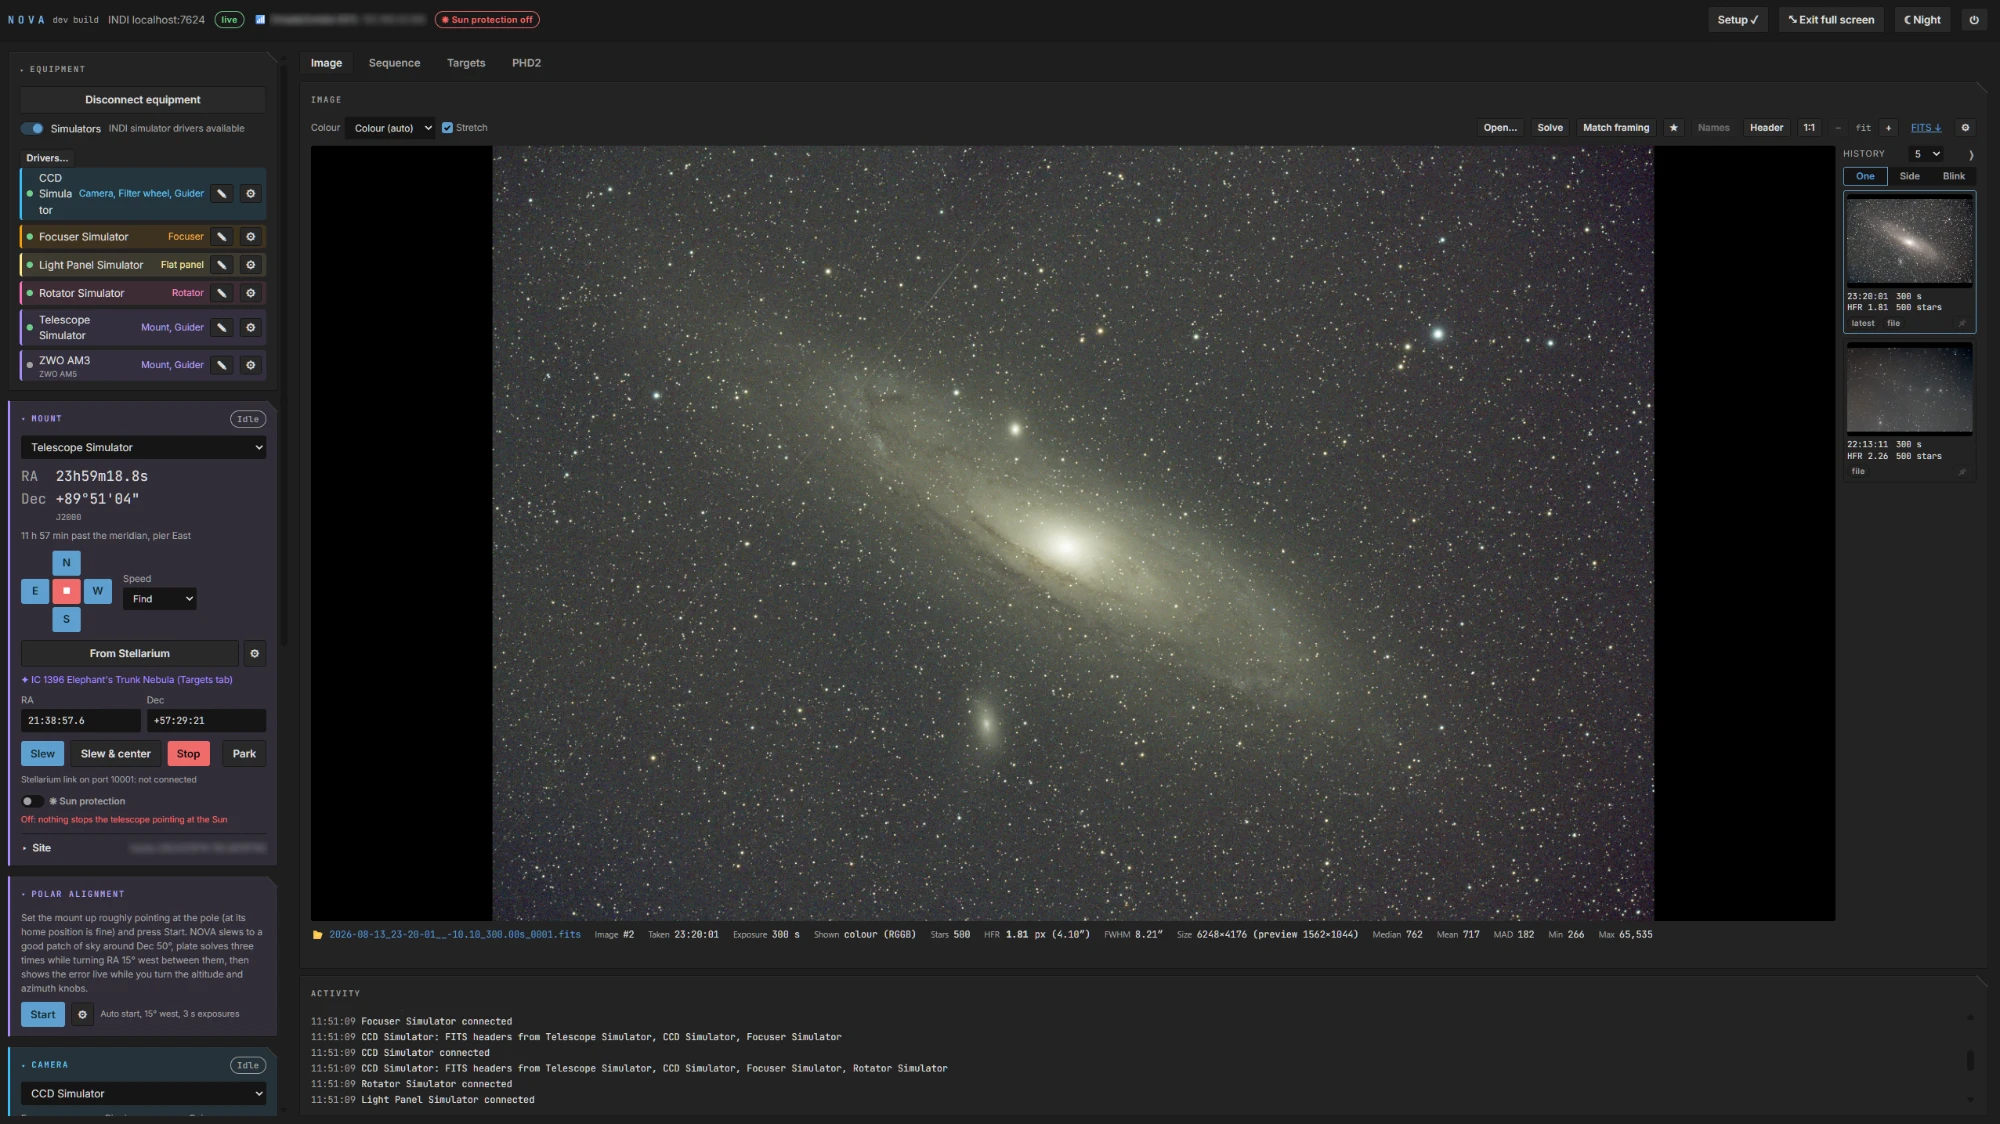
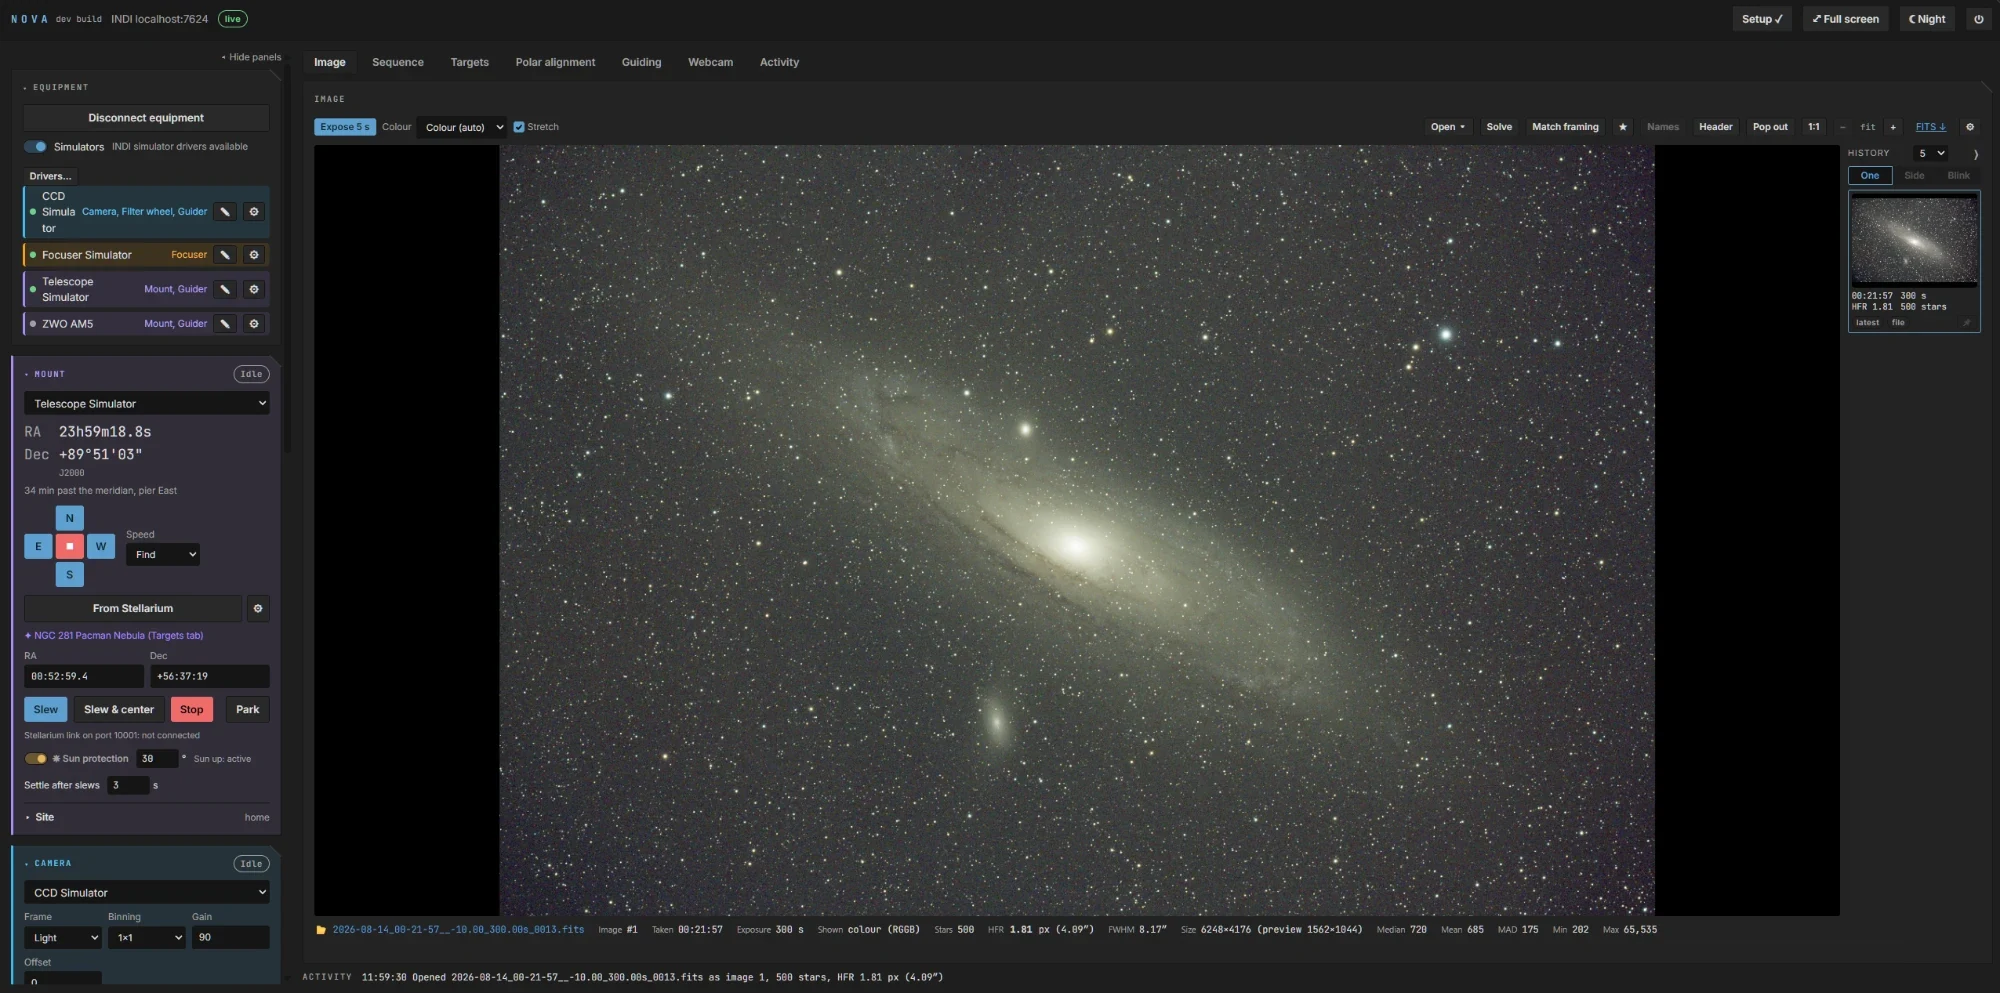
New screenshots: Targets, Sequence, Image, PHD2 and Webcam tabs
The header's Wi-Fi name and LAN address are blanked out.

diff --git a/README.md b/README.md
@@ -33,14 +33,24 @@ network, with nothing to install there. It's inspired by [N.I.N.A.](https://nigh
 
 <table>
   <tr>
-    <td width="33%"><a href="docs/images/targets-tab.webp"><img src="docs/images/targets-tab.webp" alt="The Targets tab: tonight's best targets, the sky chart with DSS imagery, and the camera's frame on IC 1396"></a></td>
-    <td width="33%"><a href="docs/images/sequence-tab.webp"><img src="docs/images/sequence-tab.webp" alt="The Sequence tab: a target with its frames, dithering, refocusing, meridian flip and end-of-night steps"></a></td>
-    <td width="33%"><a href="docs/images/phd2-tab.webp"><img src="docs/images/phd2-tab.webp" alt="The PHD2 tab: PHD2's own window, running headless on the mini PC"></a></td>
+    <td width="33%"><a href="docs/images/targets-tab.webp"><img src="docs/images/targets-tab.webp" alt="The Targets tab: tonight's best targets, the sky chart with DSS imagery, and the camera's frame on IC 1396, with the panels moved and the altitude chart"></a></td>
+    <td width="33%"><a href="docs/images/sequence-tab.webp"><img src="docs/images/sequence-tab.webp" alt="The Sequence tab: IC 1396 with its frames, dithering, refocusing, meridian flip and end-of-night steps"></a></td>
+    <td width="33%"><a href="docs/images/image-tab.webp"><img src="docs/images/image-tab.webp" alt="The Image tab: the Andromeda Galaxy, with stars, HFR and FWHM, and the image history"></a></td>
   </tr>
   <tr>
     <td><b>Targets:</b> tonight's best targets, a sky chart with survey imagery, and framing the camera on IC 1396.</td>
     <td><b>Sequence:</b> a night's imaging, with dithering, refocusing, the meridian flip and what happens at the end.</td>
-    <td><b>PHD2:</b> PHD2 runs on the mini PC without a screen, and shows in a tab.</td>
+    <td><b>Image:</b> every frame stretched in colour, with its stars, HFR and FWHM, and the night's history.</td>
+  </tr>
+  <tr>
+    <td><a href="docs/images/phd2-tab.webp"><img src="docs/images/phd2-tab.webp" alt="The PHD2 tab: PHD2's own window, running headless on the mini PC"></a></td>
+    <td><a href="docs/images/webcam-tab.webp"><img src="docs/images/webcam-tab.webp" alt="The Webcam tab: a USB webcam's view of the telescope in the back yard at night"></a></td>
+    <td></td>
+  </tr>
+  <tr>
+    <td><b>PHD2:</b> PHD2 runs on the mini PC without a screen, and shows in a tab (or use NOVA's own guider).</td>
+    <td><b>Webcam:</b> watch the rig from indoors, full size or popped out over any tab.</td>
+    <td></td>
   </tr>
 </table>
 

diff --git a/docs/USER-GUIDE.md b/docs/USER-GUIDE.md
@@ -474,6 +474,8 @@ Three ways to use [Stellarium](https://stellarium.org/) on the computer you brow
 
 ## Webcam
 
+![The Webcam tab: the telescope in the back yard at night](images/webcam-tab.webp)
+
 A USB webcam on the mini PC, pointed at the rig, lets you watch it from indoors: the mount turning, a cable snagging,
 the dew shield, the flat panel. Plug it in and open the **Webcam** tab: the live view, with the webcam, size and frame
 rate (640×480 at 5 fps is plenty), and **Snapshot** to save a picture. **Pop out** opens it in a small window that stays
